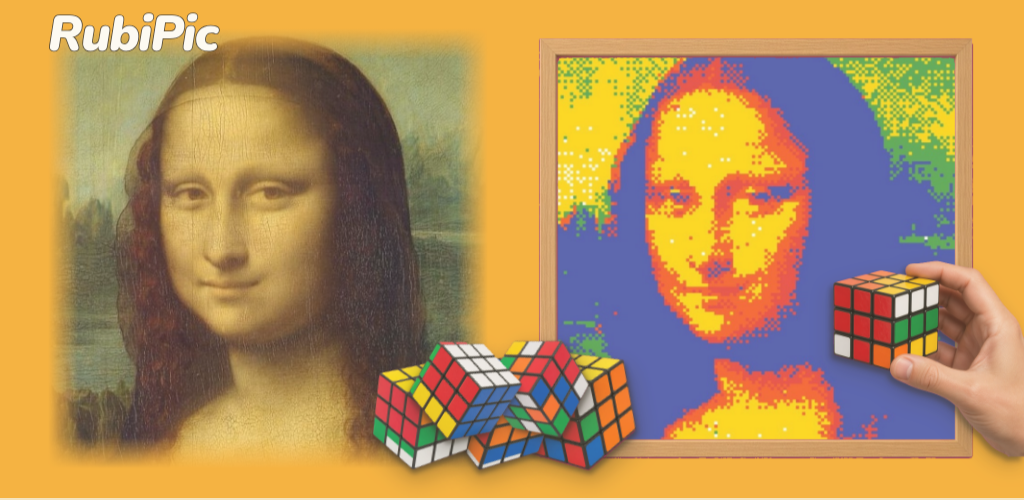
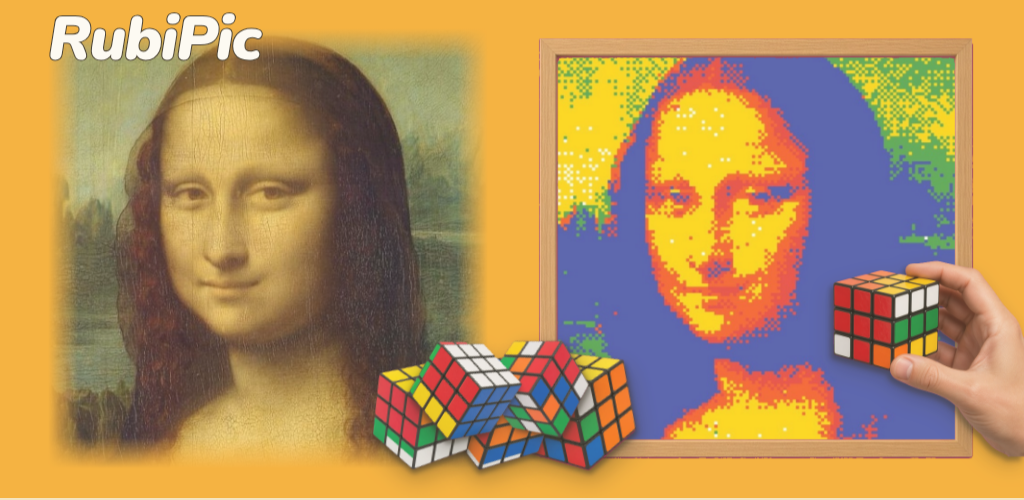
Increase feature graphic RubiPic wordmark by 25%

Changed region(s): [[0.0312, 0.03, 0.2812, 0.12]]

diff --git a/googleplay.html b/googleplay.html
@@ -23,7 +23,7 @@
 <link rel="preconnect" href="https://fonts.gstatic.com" crossorigin>
 <link href="https://fonts.googleapis.com/css2?family=Nunito:ital,wght@1,800;1,900&family=Quicksand:wght@500;600;700&display=swap" rel="stylesheet">
 
-<link rel="stylesheet" href="assets/css/styles.css?v=gp48">
+<link rel="stylesheet" href="assets/css/styles.css?v=gp49">
 </head>
 <body data-title-key="googleplay.meta.title" data-desc-key="googleplay.meta.description">
 

diff --git a/assets/css/styles.css b/assets/css/styles.css
@@ -745,11 +745,11 @@ section { padding: 64px 0; }
   font-family: "Nunito", "Quicksand", var(--font);
   font-style: italic;
   font-weight: 900;
-  font-size: 4.8cqw;
+  font-size: 6cqw;
   line-height: 1;
   letter-spacing: -0.03em;
   color: #fff;
-  -webkit-text-stroke: 0.16cqw #211a12;
+  -webkit-text-stroke: 0.2cqw #211a12;
   paint-order: stroke fill;
 }
 .gp-empty-layer {
